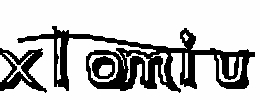
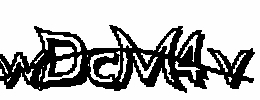
temp.jpg and ocr.js

Changed region(s): [[0.0, 0.24, 0.9846, 0.93], [0.3692, 0.87, 0.4, 0.9], [0.3385, 0.84, 0.3692, 0.87]]

diff --git a/solver/ocr.js b/solver/ocr.js
@@ -1,6 +1,7 @@
 import fs from "fs";
 import Pixelizer from "image-pixelizer";
 import {Jimp, rgbaToInt} from "jimp";
+import { intToRGBA } from "jimp";
 import {execSync} from "child_process";
 import {EOL} from "os";
 
@@ -48,28 +49,28 @@ if (what2Scan == "keep2share.cc") {
 }
 
 //Solving keep2share.cc new captchas
-function getKeep2share(file, callback) {
-    Jimp.read(file).then(image => {
-
-        image.rgba(false).greyscale()
+async function getKeep2share(file, callback) {
+    Jimp.read(file).then(async () => {
+        var image = await Jimp.read(file);
+        image.greyscale();
 
         for (var x = 0; x < image.bitmap.width; x++) {
             for (var y = 0; y < image.bitmap.height; y++) {
 
                 let currentColor = image.getPixelColor(x, y);
 
-                var rgb = Jimp.intToRGBA(currentColor);
+                var rgb = intToRGBA(currentColor);
                 if (rgb.r < 253) {
 
                     let newVal = 0;
 
-                    image.setPixelColor(Jimp.rgbaToInt(newVal, newVal, newVal, 255), x, y);
+                    image.setPixelColor(rgbaToInt(newVal, newVal, newVal, 255), x, y);
                 }
             }
         }
 
         image = image.clone();
-        image.write('./darknet64/temp.jpg', function () {
+        await image.write('./darknet64/temp.jpg', function () {
             setTimeout(function () {
                 let result = execSync('cd darknet64 && ' + darknetExec + ' detector test data/obj.data yolov4-tiny-custom.cfg yolov4-tiny-custom_last.weights -dont_show temp.jpg');
                 let resultString = result.toString('utf8');
